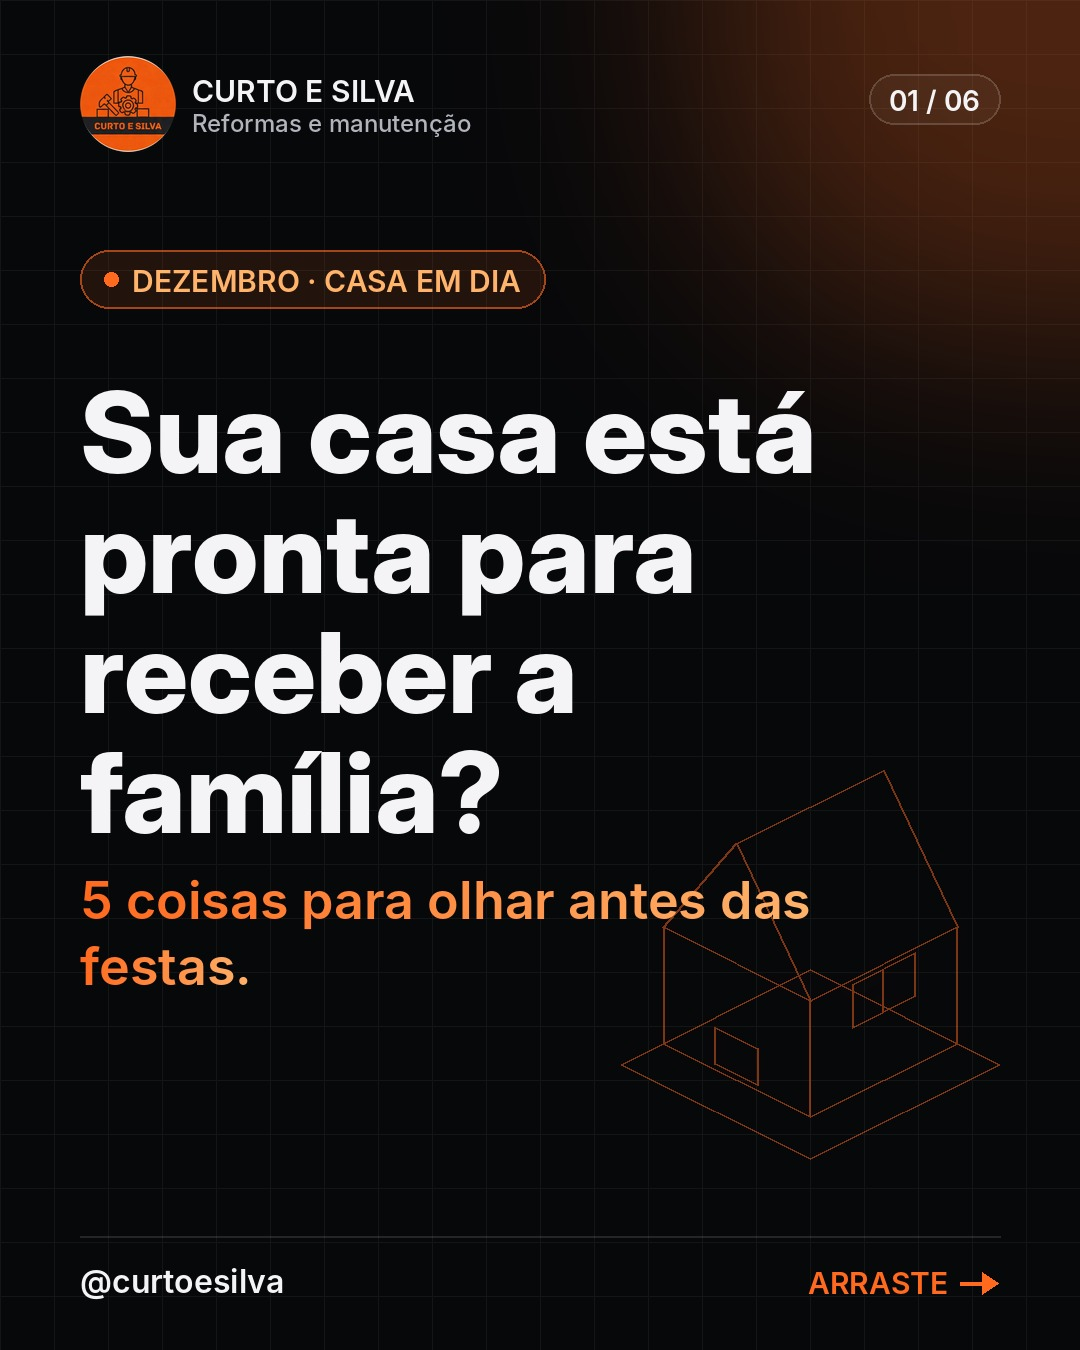
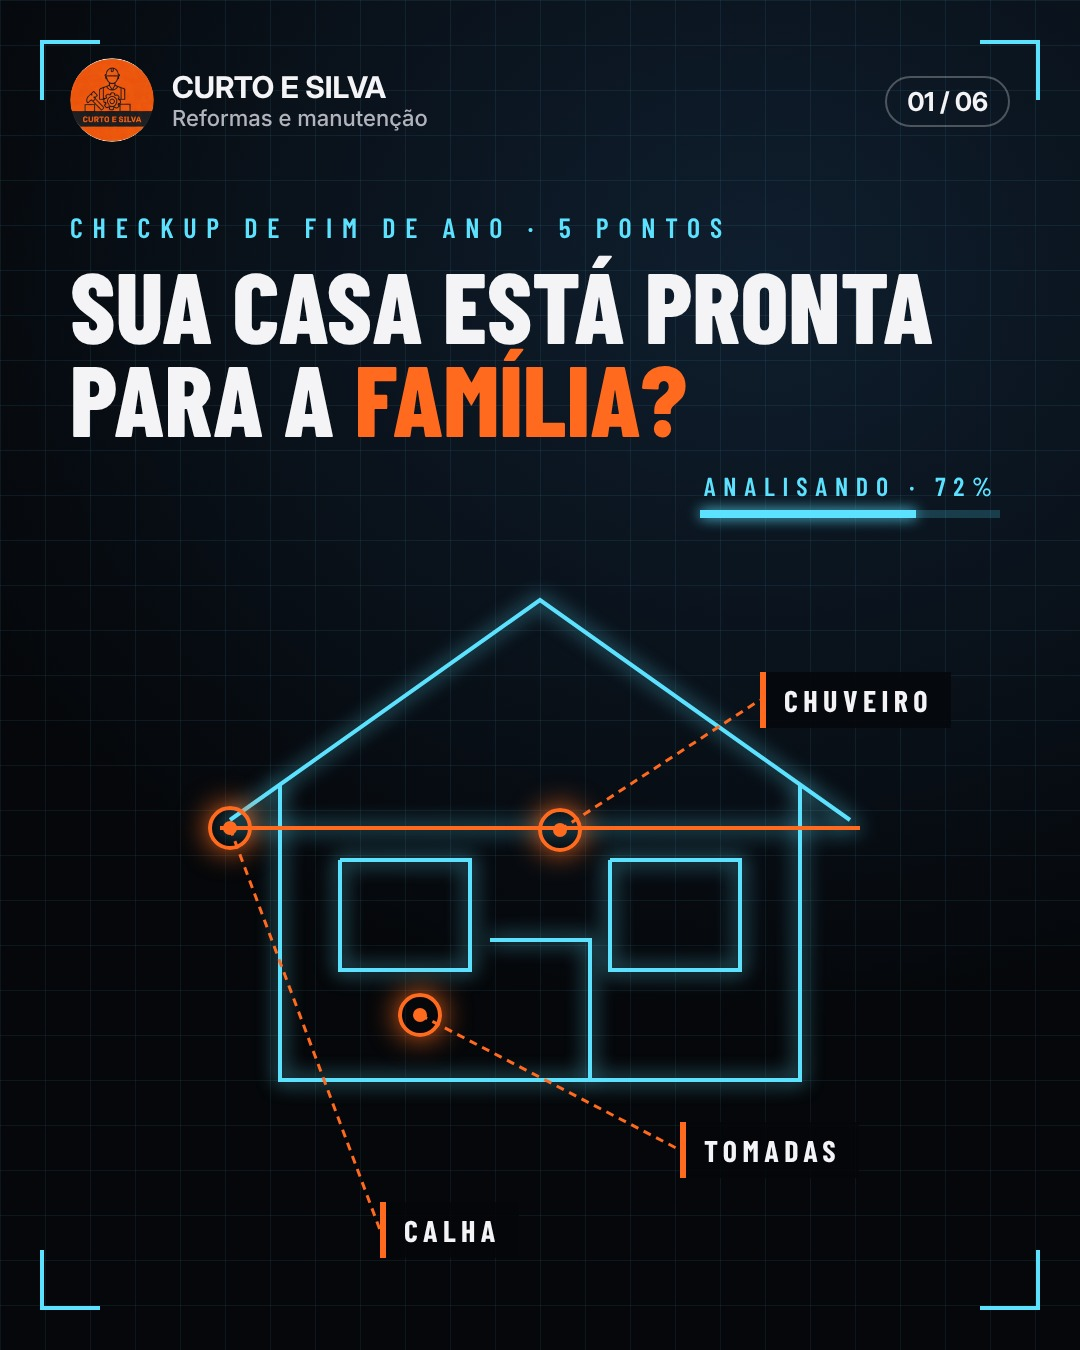
Dezembro: posts refeitos nos layouts A (número gigante) e B (planta técnica)
Claude-Session: https://claude.ai/code/session_01Sag3cNto33pJcV8XzacMkz

diff --git a/ferramentas/layouts/render.js b/ferramentas/layouts/render.js
@@ -1,0 +1,4 @@
+const { chromium } = require('playwright');
+(async()=>{const b=await chromium.launch();const p=await b.newPage({viewport:{width:1080,height:1350}});
+for(const f of process.argv.slice(2)){await p.goto('file://'+f);await p.waitForTimeout(400);await p.screenshot({path:f.replace('.html','.jpg'),type:'jpeg',quality:92});}
+await b.close();})();

diff --git a/ferramentas/layouts/layouts.py b/ferramentas/layouts/layouts.py
@@ -1,0 +1,95 @@
+# Layouts A (número gigante) e B (planta técnica) aprovados pela Maria em 18/11/2026.
+# Uso: python3 layouts.py posts.json [id ...]  -> gera posts-novos/<id>/N.jpg
+import os, re, sys, json, subprocess, tempfile
+D=os.path.dirname(os.path.abspath(__file__)); R=os.path.abspath(D+'/../..')+'/'
+F=R+'ferramentas/stories/fontes/'; LOGO=R+'ferramentas/stories/logo-curto-e-silva.png'
+def hi(t): return re.sub(r'\*(.+?)\*',r'<span class=or>\1</span>',t)
+CSS=f"""<html><head><meta charset=utf-8><style>
+@font-face{{font-family:BC;src:url({F}BarlowCondensed-ExtraBold.ttf);font-weight:800}}
+@font-face{{font-family:BC;src:url({F}BarlowCondensed-Bold.ttf);font-weight:700}}
+@font-face{{font-family:BC;src:url({F}BarlowCondensed-SemiBold.ttf);font-weight:600}}
+@font-face{{font-family:IN;src:url({F}InterDisplay-ExtraBold.otf);font-weight:800}}
+@font-face{{font-family:IN;src:url({F}InterDisplay-Bold.otf);font-weight:700}}
+@font-face{{font-family:IN;src:url({F}Inter-SemiBold.otf);font-weight:600}}
+@font-face{{font-family:IN;src:url({F}Inter-Medium.otf);font-weight:500}}
+*{{margin:0;padding:0;box-sizing:border-box}}
+body{{width:1080px;height:1350px;overflow:hidden;position:relative;font-family:IN;color:#F4F4F6;background:BG}}
+.a{{position:absolute}} .or{{color:#FF6A1F}}
+.logo{{width:84px;height:84px;border-radius:50%}}
+.brand{{font:700 30px IN}} .brand small{{display:block;font:500 22px IN;color:#B2B4BC}}
+.foot{{left:70px;right:70px;bottom:52px;display:flex;justify-content:space-between;font:600 26px IN}}
+.kick{{font:700 30px BC;letter-spacing:.3em;color:#FF6A1F}}
+.h{{font:800 110px/0.93 BC;text-transform:uppercase}}
+</style></head><body>"""
+GRID="background-image:linear-gradient(#ffffff0a 1px,transparent 1px),linear-gradient(90deg,#ffffff0a 1px,transparent 1px);background-size:54px 54px;"
+GRIDC="background-image:linear-gradient(#5CE1FF14 1px,transparent 1px),linear-gradient(90deg,#5CE1FF14 1px,transparent 1px);background-size:45px 45px;"
+HUD="radial-gradient(120% 80% at 70% 20%,#0F1E2E,#05070A 70%)"
+def top(n,t): return f"""<div class=a style="left:70px;top:58px;display:flex;align-items:center;gap:18px"><img class=logo src="{LOGO}"><div class=brand>CURTO E SILVA<small>Reformas e manutenção</small></div></div>
+<div class=a style="right:70px;top:76px;font:700 26px IN;border:2px solid #ffffff44;border-radius:40px;padding:8px 20px">{n:02d} / {t:02d}</div>"""
+def foot(last): return f"""<div class="a foot"><span>@curtoesilva</span><span class=or>{'BH · CONTAGEM · NOVA LIMA' if last else 'ARRASTE →'}</span></div>"""
+def ctablock(c,y):
+    return f"""<div class=a style="left:70px;top:{y}px;width:940px" class=h><div class=h style="font-size:120px">{hi(c['head'])}</div><div style="font:600 40px/1.3 IN;color:#FF6A1F;margin-top:24px">{hi(c.get('sub',''))}</div></div>
+<div class=a style="left:70px;right:70px;top:880px;height:120px;border-radius:60px;background:#FF6A1F;color:#07080A;font:800 50px/120px IN;text-align:center;box-shadow:0 0 50px #FF6A1F66">Orçamento sem custo</div>
+<div class=a style="left:0;right:0;top:1040px;text-align:center;font:700 46px IN">WhatsApp (31) 99984-6776</div>
+<div class=a style="left:0;right:0;top:1110px;text-align:center;font:500 30px IN;color:#B2B4BC">A nova geração que honra o velho compromisso.</div>"""
+def bullets_A(items,y):
+    return f'<div class=a style="left:70px;top:{y}px;right:70px">'+''.join(f'<div style="display:flex;align-items:center;gap:30px;padding:24px 0;border-bottom:2px solid #ffffff1a"><span style="font:800 92px/0.8 BC;color:transparent;-webkit-text-stroke:3px #FF6A1F;min-width:110px">{i+1:02d}</span><span style="font:700 42px/1.2 IN">{hi(t)}</span></div>' for i,t in enumerate(items))+'</div>'
+def A(c,n,t):
+    bg=CSS.replace('BG','#07080A')+f'<div class=a style="inset:0;{GRID}"></div>'
+    last=n==t
+    if c['kind']=='cover':
+        big=c.get('big','')
+        fs=1150 if len(big)<=1 else (700 if len(big)==2 else 400)
+        return bg+f"""<div class=a style="right:{-60 if len(big)<=2 else 40}px;top:{170 if len(big)<=2 else 640}px;font:800 {fs}px/0.8 BC;color:transparent;-webkit-text-stroke:6px #FF6A1F;opacity:.9;white-space:nowrap">{big}</div>
+{'<div class=a style="inset:0;background:linear-gradient(90deg,#07080A 40%,#07080Acc 65%,transparent)"></div>' if len(big)<=2 else ''}{top(n,t)}
+<div class=a style="left:70px;top:300px;width:800px"><div class=kick>{c['tag']}</div><div class=h style="font-size:{c.get('size',124)}px;margin-top:18px">{hi(c['head'])}</div></div>
+<div class=a style="left:70px;top:{c.get('subtop',1010)}px;width:700px;font:600 40px/1.25 IN;color:#C9CCD3;border-left:8px solid #FF6A1F;padding-left:26px">{hi(c.get('sub',''))}</div>{foot(last)}</body></html>"""
+    if c['kind']=='cta':
+        big=c.get('big','')
+        return bg+(f'<div class=a style="right:-40px;top:120px;font:800 560px/0.8 BC;color:transparent;-webkit-text-stroke:4px #FF6A1F55">{big}</div>' if big else '')+top(n,t)+ctablock(c,330)+foot(True)+'</body></html>'
+    num=c.get('num',f'{n-1:02d}')
+    if 'bullets' in c:
+        return bg+top(n,t)+f"""<div class=a style="left:70px;top:210px;width:940px"><div class=kick>{c['kicker']}</div><div class=h style="font-size:104px;margin-top:14px">{hi(c['head'])}</div></div>{bullets_A(c['bullets'],c.get('ly',560))}{foot(last)}</body></html>"""
+    return bg+f"""<div class=a style="left:-40px;top:170px;font:800 520px/0.8 BC;color:transparent;-webkit-text-stroke:5px #FF6A1F">{num}</div>{top(n,t)}
+<div class=a style="left:70px;top:640px;width:940px"><div class=kick>{c['kicker']}</div><div class=h style="font-size:{c.get('size',100)}px;margin-top:16px">{hi(c['head'])}</div>
+<div style="font:500 38px/1.38 IN;color:#C9CCD3;margin-top:36px">{hi(c.get('body',''))}</div></div>{foot(last)}</body></html>"""
+CORN="".join(f'<div class=a style="{p};width:60px;height:60px;border-{a}:4px solid #5CE1FF;border-{b}:4px solid #5CE1FF"></div>' for p,a,b in [("left:40px;top:40px","left","top"),("right:40px;top:40px","right","top"),("left:40px;bottom:40px","left","bottom"),("right:40px;bottom:40px","right","bottom")])
+HOUSE="""<svg class=a style="left:190px;top:560px;filter:drop-shadow(0 0 10px #5CE1FF)" width=700 height=560 viewBox="0 0 700 560"><g fill="none" stroke="#5CE1FF" stroke-width="4"><polyline points="40,260 350,40 660,260"/><polyline points="90,225 90,520 610,520 610,225"/><polyline points="150,300 280,300 280,410 150,410 150,300"/><polyline points="420,300 550,300 550,410 420,410 420,300"/><polyline points="300,380 400,380 400,520 300,520"/></g><polyline points="30,268 670,268" fill="none" stroke="#FF6A1F" stroke-width="4"/></svg>"""
+def callout(x,y,lx,ly,label):
+    col='#FF6A1F'
+    return f"""<div class=a style="left:{x-22}px;top:{y-22}px;width:44px;height:44px;border-radius:50%;border:4px solid {col};box-shadow:0 0 30px {col}"></div><div class=a style="left:{x-7}px;top:{y-7}px;width:14px;height:14px;border-radius:50%;background:{col}"></div>
+<svg class=a style="left:0;top:0" width=1080 height=1350><line x1={x} y1={y} x2={lx} y2={ly} stroke="{col}" stroke-width=3 stroke-dasharray="8 6"/></svg>
+<div class=a style="left:{lx}px;top:{ly-28}px;background:#05070Add;border-left:6px solid {col};padding:10px 18px;font:700 30px BC;letter-spacing:.18em">{label}</div>"""
+SPOTS=[(560,830,760,700),(420,1015,680,1150),(230,828,380,1230),(700,960,780,1060),(330,960,90,1110)]
+def B(c,n,t):
+    bg=CSS.replace('BG',HUD)+f'<div class=a style="inset:0;{GRIDC}"></div>'+CORN+top(n,t)
+    if c['kind']=='cover':
+        cs=''.join(callout(*SPOTS[i],l) for i,l in enumerate(c.get('callouts',[])))
+        return bg+f"""<div class=a style="left:70px;top:210px;width:940px"><div style="font:600 28px BC;letter-spacing:.35em;color:#5CE1FF">{c['tag']}</div><div class=h style="font-size:{c.get('size',100)}px;margin-top:14px">{hi(c['head'])}</div></div>
+<div class=a style="right:80px;top:470px;font:600 26px BC;letter-spacing:.3em;color:#5CE1FF">ANALISANDO · {c.get('pct',72)}%</div>
+<div class=a style="right:80px;top:510px;width:300px;height:8px;background:#5CE1FF33"><div style="width:{c.get('pct',72)}%;height:100%;background:#5CE1FF;box-shadow:0 0 14px #5CE1FF"></div></div>{HOUSE}{cs}</body></html>"""
+    if c['kind']=='cta':
+        return bg+ctablock(c,330).replace('#FF6A1F;color:#07080A','#FF6A1F;color:#07080A')+f'<div class=a style="left:0;right:0;top:1200px;text-align:center;font:600 26px BC;letter-spacing:.35em;color:#5CE1FF">BH · CONTAGEM · NOVA LIMA</div></body></html>'
+    head=f"""<div class=a style="left:70px;top:230px;width:940px"><div style="font:600 28px BC;letter-spacing:.35em;color:#5CE1FF">{c['kicker']}</div><div class=h style="font-size:{c.get('size',100)}px;margin-top:14px">{hi(c['head'])}</div></div>"""
+    if 'rows' in c:
+        rows=''.join(f'<div style="display:flex;justify-content:space-between;gap:20px;font:600 36px IN;padding:16px 0;border-bottom:1px solid #ffffff22"><span>{a}</span><span style="color:{ {"r":"#FF3B30","g":"#34E07A","o":"#FF6A1F","c":"#5CE1FF"}[k]};white-space:nowrap">{s}</span></div>' for a,s,k in c['rows'])
+        body=f"""<div class=a style="left:70px;top:{c.get('cy',620)}px;width:940px;border:2px solid #5CE1FF66;background:#05070Acc;padding:40px"><div style="font:600 28px BC;letter-spacing:.3em;color:#5CE1FF;margin-bottom:12px">{c.get('card','DIAGNÓSTICO')}</div>{rows}</div>"""
+        note=f'<div class=a style="left:70px;top:1130px;width:940px;font:500 34px/1.4 IN;color:#C9D6E3">{hi(c.get("body",""))}</div>'
+        return bg+head+body+note+'</body></html>'
+    if 'checks' in c:
+        items=''.join(f'<div style="display:flex;align-items:center;gap:26px;margin-bottom:24px;border:2px solid #5CE1FF55;background:#05070Acc;padding:24px 30px"><span style="width:46px;height:46px;border:4px solid #FF6A1F;flex:none"></span><span style="font:700 40px IN;flex:1">{a}</span><span style="font:600 26px BC;letter-spacing:.25em;color:#5CE1FF">{s}</span></div>' for a,s in c['checks'])
+        return bg+head+f'<div class=a style="left:70px;top:{c.get("cy",560)}px;right:70px">{items}</div></body></html>'
+    return bg+head+f'<div class=a style="left:70px;top:{c.get("cy",620)}px;width:940px;border:2px solid #5CE1FF66;background:#05070Acc;padding:44px;font:500 40px/1.4 IN;color:#E4ECF4">{hi(c["body"])}</div></body></html>'
+def build(pid,post):
+    out=R+'posts-novos/'+pid+'/'; os.makedirs(out,exist_ok=True)
+    for f in os.listdir(out):
+        if f.endswith('.jpg'): os.remove(out+f)
+    fn={'A':A,'B':B}[post['style']]; sl=post['slides']; tmp=tempfile.mkdtemp(); hs=[]
+    for i,c in enumerate(sl,1):
+        h=f'{tmp}/{i}.html'; open(h,'w').write(fn(c,i,len(sl))); hs.append(h)
+    subprocess.run(['node',D+'/render.js']+hs,check=True,env={**os.environ,'NODE_PATH':subprocess.check_output(['npm','root','-g']).decode().strip()})
+    for i,h in enumerate(hs,1): os.replace(h.replace('.html','.jpg'),out+f'{i}.jpg')
+if __name__=='__main__':
+    data=json.load(open(sys.argv[1],encoding='utf-8'))
+    for pid,p in data.items():
+        if len(sys.argv)<3 or pid in sys.argv[2:]: build(pid,p)
